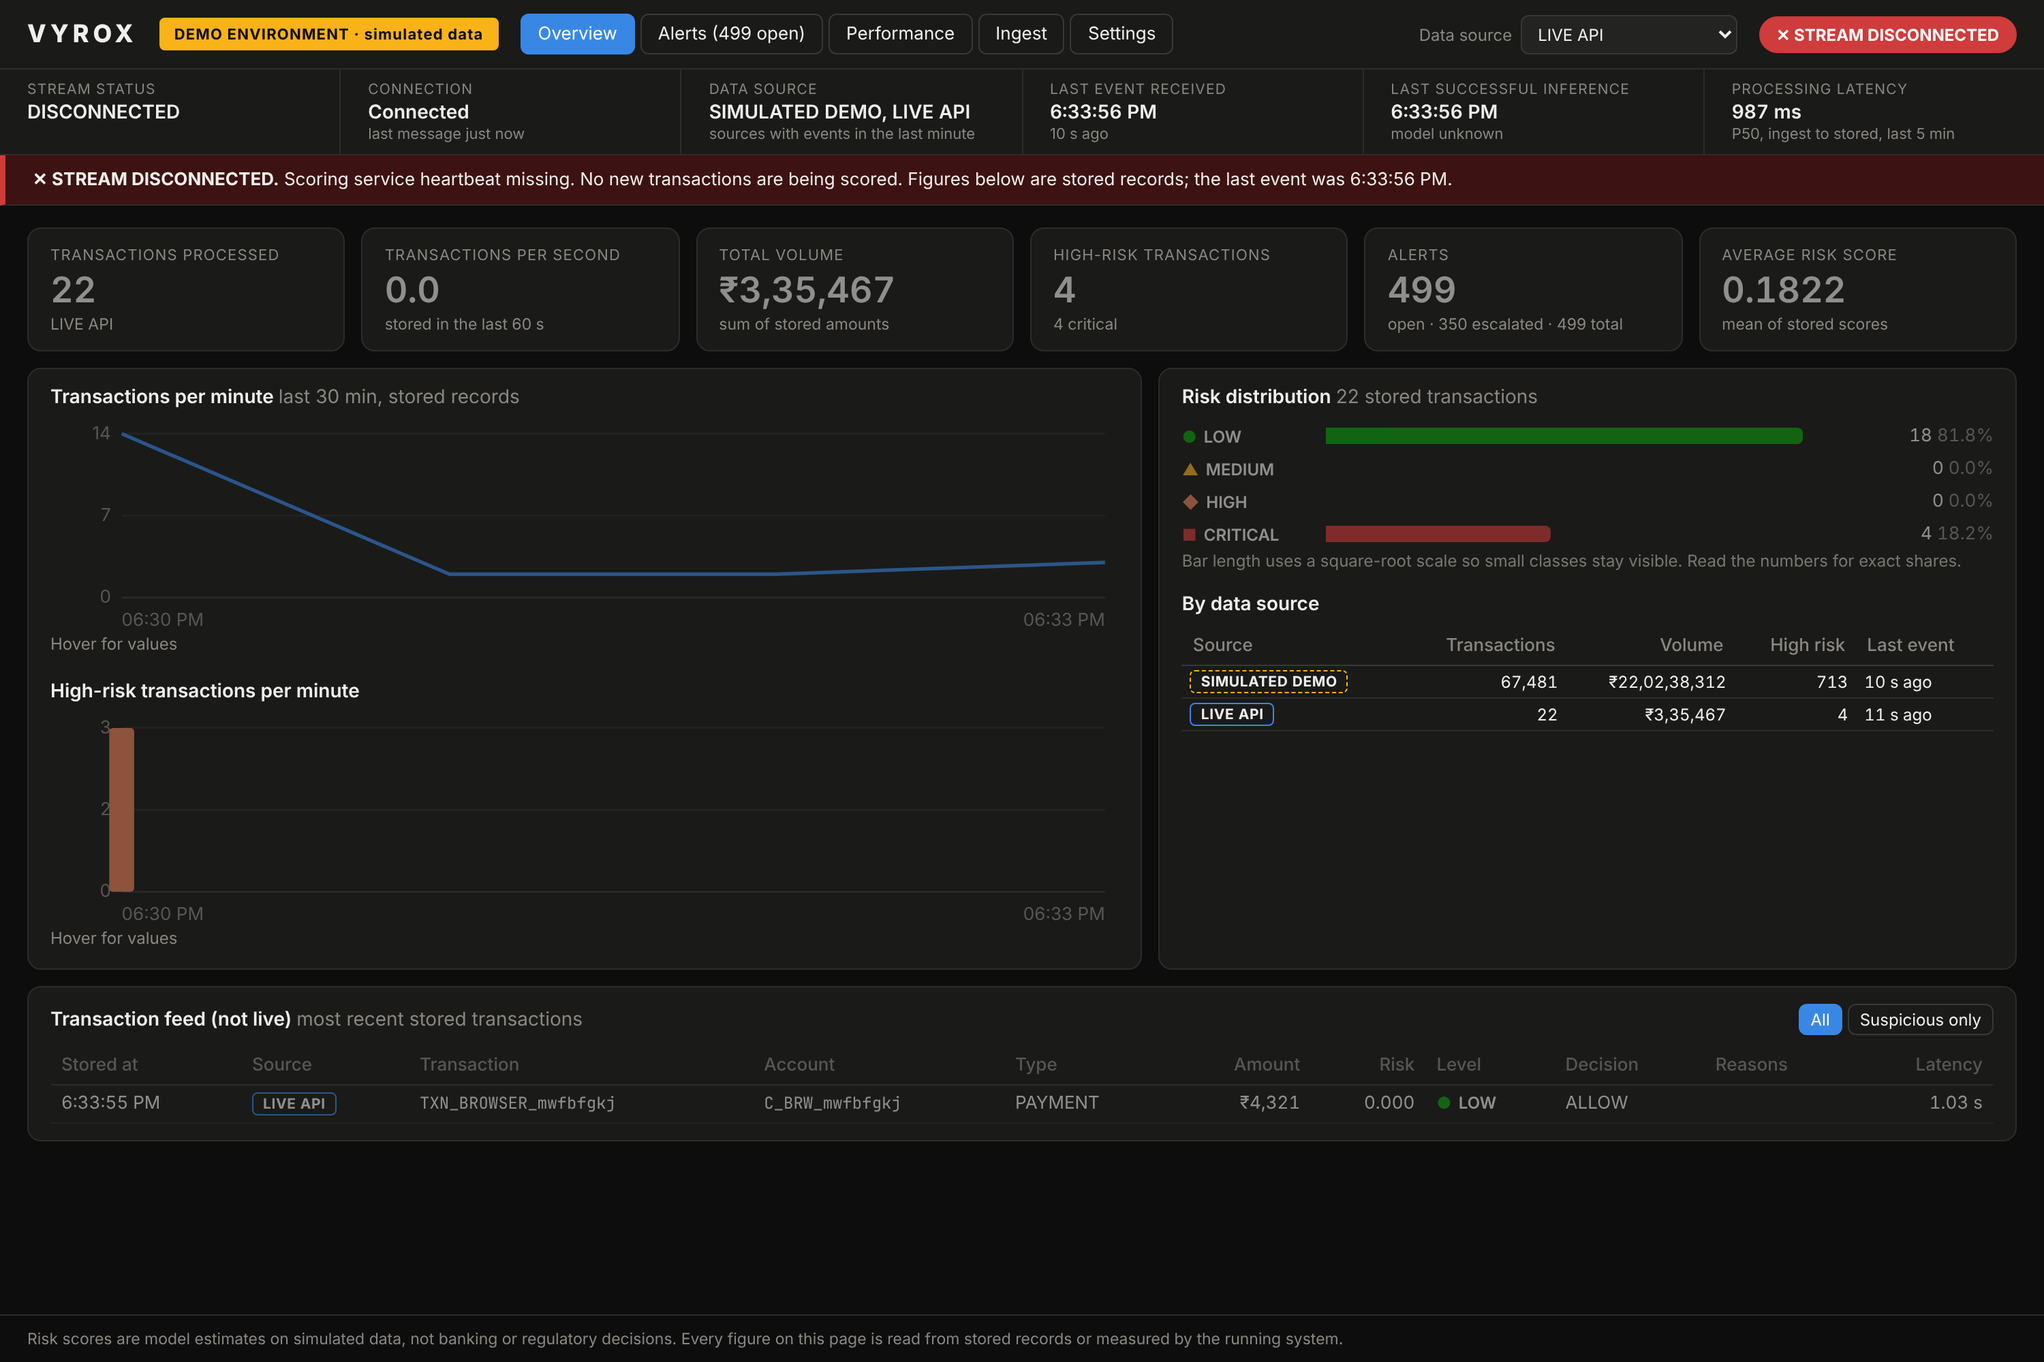
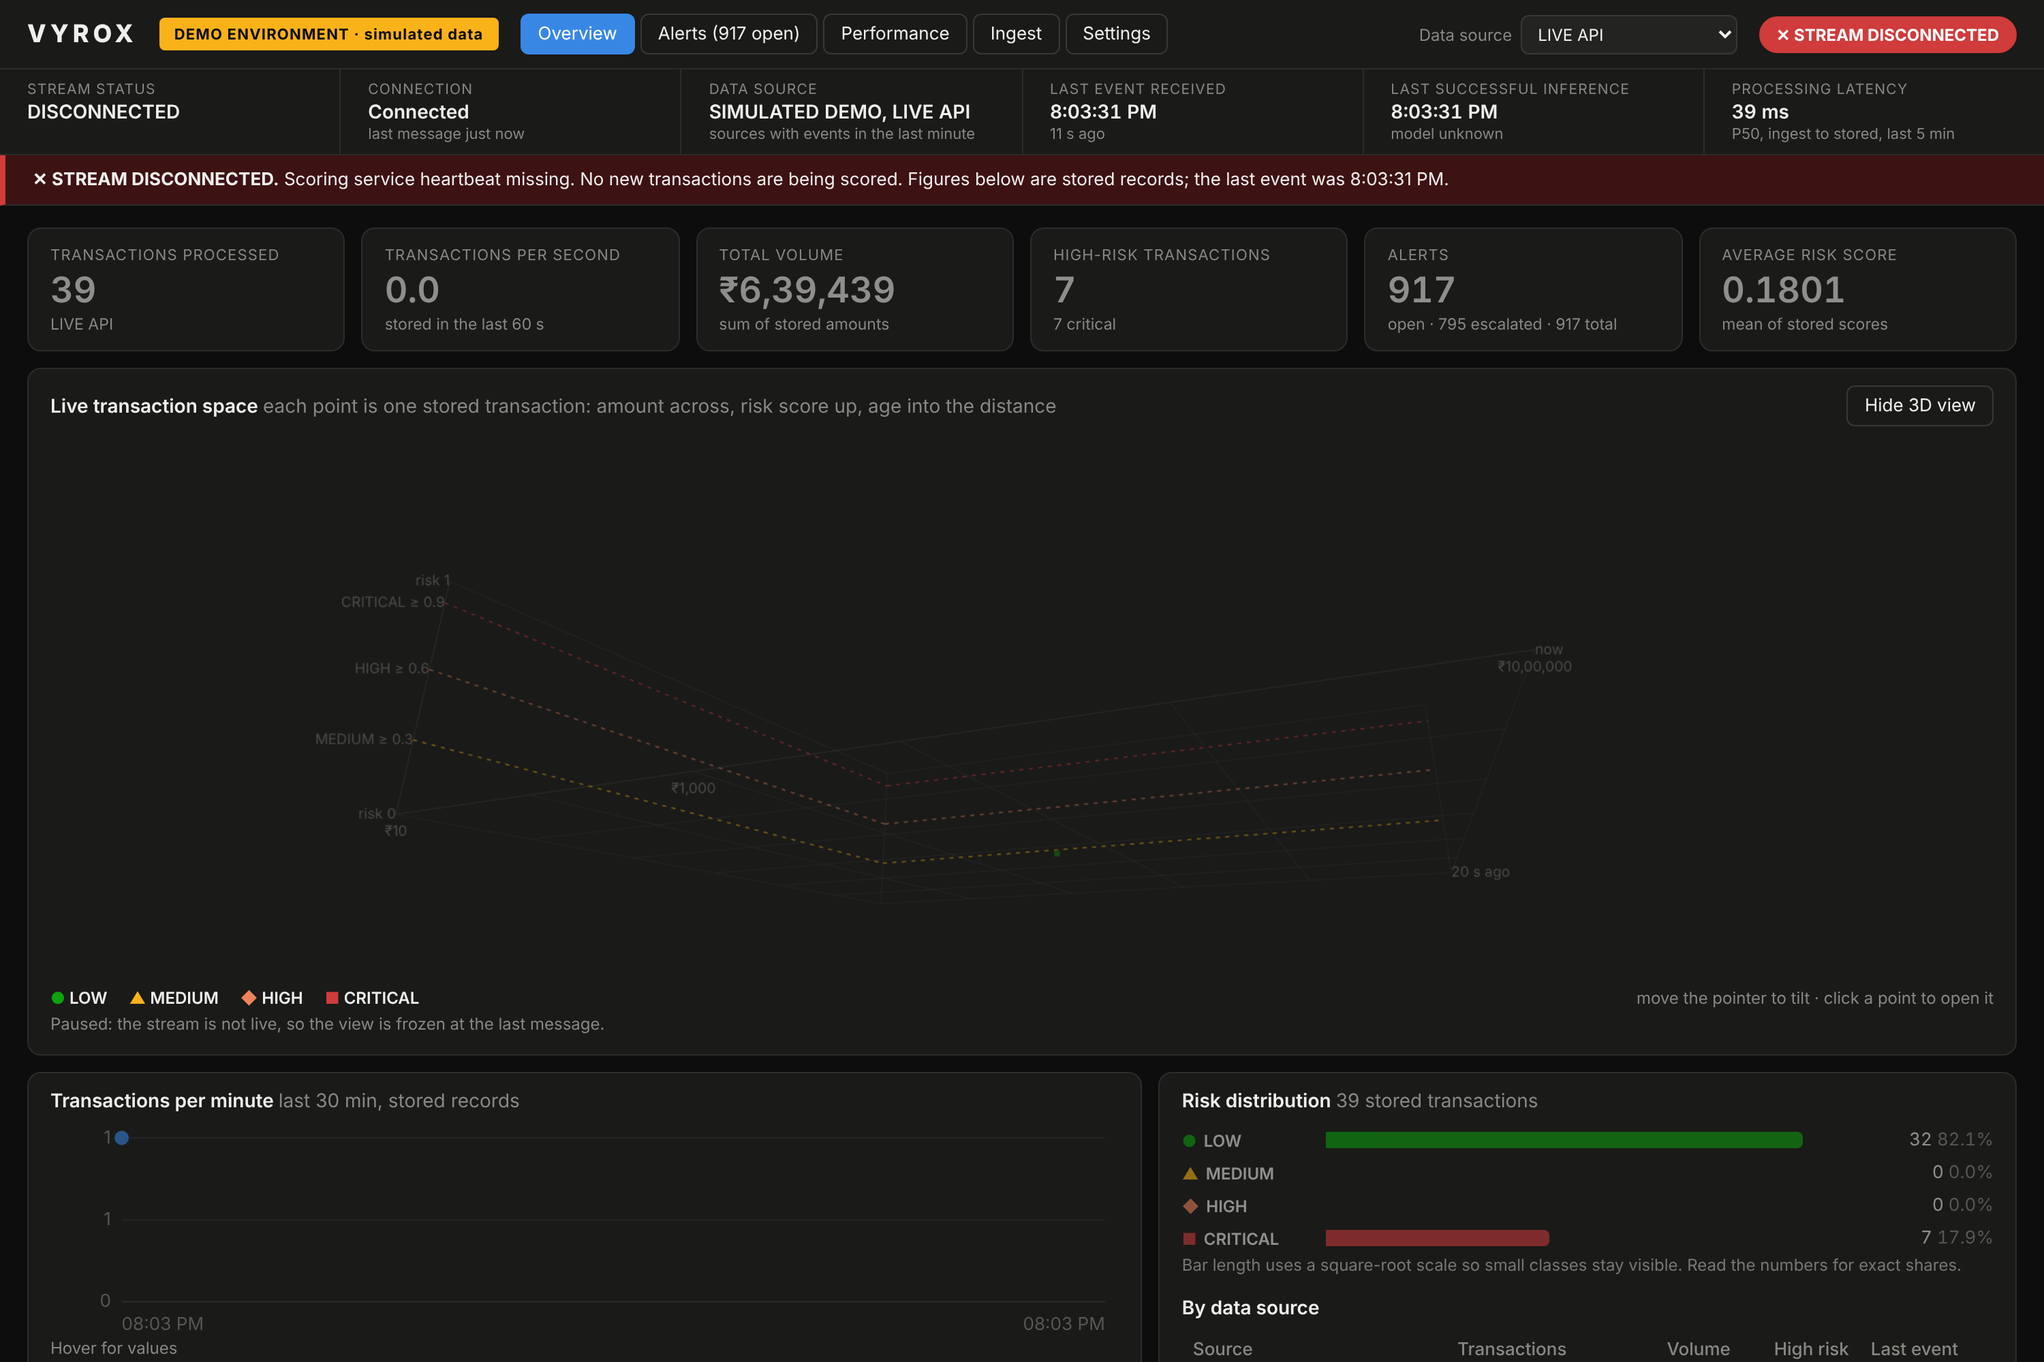
Add a lightweight 3D live view of the transaction stream
Canvas-based 3D scatter of the last 20 seconds (amount, risk score, age),
fed only by stored transactions from the SSE stream. It freezes and dims when
the stream is not live, is capped at 20 fps, and can be switched off.

Claude-Session: https://claude.ai/code/session_016dwzvm154h7gx5wKtvHvyx

diff --git a/services/dashboard/src/Scene3D.tsx b/services/dashboard/src/Scene3D.tsx
@@ -1,0 +1,179 @@
+// 3D live view: every point is one stored transaction pushed by the backend.
+//
+//   left-right  amount (log scale)        up-down  risk score (0 to 1)
+//   depth       age: new transactions arrive at the front and recede as they age
+//
+// Nothing here is simulated. Points only move because they get older, and the
+// clock stops when the stream is not live, so a stalled pipeline gives a still,
+// dimmed scene instead of something that looks alive.
+//
+// Kept light on purpose: plain canvas with a hand-written perspective
+// projection (no WebGL, no 3D library), capped at 20 frames per second, at most
+// 1,200 points, and no drawing at all while the tab or the panel is hidden.
+import { useEffect, useRef, useState } from "react";
+import { LEVELS, Policy, RiskLevel, Txn } from "./api";
+import { LEVEL_ICON } from "./charts";
+
+const WINDOW_S = 20;
+const MAX_POINTS = 1200;
+const FRAME_MS = 1000 / 20;
+const LEVEL_VAR: Record<RiskLevel, string> = { LOW: "--good", MEDIUM: "--warning", HIGH: "--serious", CRITICAL: "--critical" };
+const SIZE: Record<RiskLevel, number> = { LOW: 1.6, MEDIUM: 3.2, HIGH: 4.2, CRITICAL: 5.2 };
+const AMOUNT_MIN = 1, AMOUNT_MAX = 6; // log10 rupees: 10 to 10,00,000
+
+interface Props {
+  feed: Txn[];
+  isLive: boolean;
+  frozenAt: number | null;            // browser time of the last message, used when not live
+  clockOffset: number;                // browser clock minus server clock, ms
+  thresholds: Policy["thresholds"] | null;
+  onOpen: (id: string) => void;
+}
+interface Placed { t: Txn; sx: number; sy: number; r: number; depth: number }
+
+export function Scene3D({ feed, isLive, frozenAt, clockOffset, thresholds, onOpen }: Props) {
+  const canvasRef = useRef<HTMLCanvasElement>(null);
+  const state = useRef({ feed, isLive, frozenAt, clockOffset, thresholds, tiltX: 0, tiltY: 0, hover: null as Placed | null, placed: [] as Placed[], mx: -1, my: -1 });
+  const [tip, setTip] = useState<Placed | null>(null);
+  Object.assign(state.current, { feed, isLive, frozenAt, clockOffset, thresholds });
+
+  useEffect(() => {
+    const canvas = canvasRef.current!;
+    const ctx = canvas.getContext("2d")!;
+    const css = getComputedStyle(document.documentElement);
+    const color = (v: string) => css.getPropertyValue(v).trim();
+    const C = { line: color("--line"), axis: color("--axis"), muted: color("--muted"), ink: color("--ink"), surface: color("--surface"),
+                level: Object.fromEntries(LEVELS.map((l) => [l, color(LEVEL_VAR[l])])) as Record<RiskLevel, string> };
+    const reduced = window.matchMedia("(prefers-reduced-motion: reduce)").matches;
+    let raf = 0, last = 0, visible = true, W = 0, H = 0;
+
+    const resize = () => {
+      const dpr = Math.min(window.devicePixelRatio || 1, 1.5);
+      W = canvas.clientWidth; H = canvas.clientHeight;
+      canvas.width = Math.round(W * dpr); canvas.height = Math.round(H * dpr);
+      ctx.setTransform(dpr, 0, 0, dpr, 0, 0);
+    };
+    resize();
+    const ro = new ResizeObserver(resize); ro.observe(canvas);
+    const io = new IntersectionObserver(([e]) => { visible = e.isIntersecting; }); io.observe(canvas);
+
+    // World box: x in [-1, 1] (amount), y in [0, 1] (risk), z in [0, 1] (age, 0 = now).
+    const project = (x: number, y: number, z: number) => {
+      const s = state.current;
+      const yaw = -0.42 + s.tiltX * 0.22, pitch = 0.30 + s.tiltY * 0.10;
+      x *= 1.7;
+      const zc = (z - 0.5) * 3.0, yc = (y - 0.5) * 0.9;
+      const x1 = x * Math.cos(yaw) - zc * Math.sin(yaw);
+      const z1 = x * Math.sin(yaw) + zc * Math.cos(yaw);
+      const y1 = yc * Math.cos(pitch) - z1 * Math.sin(pitch);
+      const z2 = yc * Math.sin(pitch) + z1 * Math.cos(pitch) + 3.6;
+      const f = Math.min(W * 0.42, H * 1.75) / z2;
+      return { sx: W / 2 + x1 * f, sy: H / 2 - y1 * f + 28, scale: f / 200, depth: z2 };
+    };
+    const seg = (a: [number, number, number], b: [number, number, number], stroke: string, width = 1, dash: number[] = []) => {
+      const p = project(...a), q = project(...b);
+      ctx.strokeStyle = stroke; ctx.lineWidth = width; ctx.setLineDash(dash);
+      ctx.beginPath(); ctx.moveTo(p.sx, p.sy); ctx.lineTo(q.sx, q.sy); ctx.stroke();
+    };
+    const label = (text: string, at: [number, number, number], align: CanvasTextAlign = "left", dy = 0) => {
+      const p = project(...at);
+      ctx.fillStyle = C.muted; ctx.font = "10.5px Inter, system-ui, sans-serif"; ctx.textAlign = align;
+      ctx.fillText(text, p.sx, p.sy + dy);
+    };
+
+    const draw = (now: number) => {
+      raf = requestAnimationFrame(draw);
+      if (!visible || document.hidden || now - last < (reduced ? 500 : FRAME_MS)) return;
+      last = now;
+      const s = state.current;
+      // "Now" on the server clock. Frozen at the last message when the stream is not live.
+      const clock = (s.isLive || s.frozenAt == null ? Date.now() : s.frozenAt) - s.clockOffset;
+      ctx.clearRect(0, 0, W, H);
+      ctx.globalAlpha = s.isLive ? 1 : 0.45;
+
+      // Floor grid and frame.
+      for (let i = 0; i <= 6; i++) seg([-1, 0, i / 6], [1, 0, i / 6], i === 0 ? C.axis : C.line);
+      for (let i = 0; i <= 5; i++) seg([-1 + (2 * i) / 5, 0, 0], [-1 + (2 * i) / 5, 0, 1], C.line);
+      seg([-1, 0, 1], [-1, 1, 1], C.line); seg([1, 0, 1], [1, 1, 1], C.line); seg([-1, 1, 1], [1, 1, 1], C.line);
+      seg([-1, 0, 0], [-1, 1, 0], C.axis); seg([-1, 1, 0], [-1, 1, 1], C.line);
+      // Threshold planes, drawn as lines along the left wall and the back wall.
+      if (s.thresholds) {
+        (["medium", "high", "critical"] as const).forEach((k) => {
+          const y = s.thresholds![k], col = C.level[k.toUpperCase() as RiskLevel];
+          seg([-1, y, 0], [-1, y, 1], col, 1, [3, 4]); seg([-1, y, 1], [1, y, 1], col, 1, [3, 4]);
+          label(`${k.toUpperCase()} ≥ ${y}`, [-1, y, 0], "right", 3);
+        });
+      }
+      ctx.setLineDash([]);
+      label("risk 0", [-1, 0, 0], "right", 3); label("risk 1", [-1, 1, 0], "right", 3);
+      label("₹10", [-1, 0, 0], "center", 16); label("₹1,000", [-0.2, 0, 0], "center", 16); label("₹10,00,000", [1, 0, 0], "center", 16);
+      label("now", [1, 0, 0], "left", 3); label(`${WINDOW_S} s ago`, [1, 0, 1], "left", 3);
+
+      // Points, far to near so nearer ones draw on top.
+      const placed: Placed[] = [];
+      for (let i = 0; i < s.feed.length && placed.length < MAX_POINTS; i++) {
+        const t = s.feed[i];
+        const age = (clock - Date.parse(t.persisted_at)) / 1000;
+        if (age > WINDOW_S) continue;
+        const lx = (Math.min(AMOUNT_MAX, Math.max(AMOUNT_MIN, Math.log10(Math.max(t.amount, 1)))) - AMOUNT_MIN) / (AMOUNT_MAX - AMOUNT_MIN);
+        const p = project(lx * 2 - 1, t.risk_score, Math.max(0, age) / WINDOW_S);
+        placed.push({ t, sx: p.sx, sy: p.sy, r: Math.max(1.2, SIZE[t.risk_level] * p.scale * 1.6), depth: p.depth });
+      }
+      placed.sort((a, b) => b.depth - a.depth);
+      for (const p of placed) {
+        const hot = p.t.risk_level !== "LOW";
+        if (hot) { // a stem to the floor makes height readable in 3D
+          const lx = (Math.min(AMOUNT_MAX, Math.max(AMOUNT_MIN, Math.log10(Math.max(p.t.amount, 1)))) - AMOUNT_MIN) / (AMOUNT_MAX - AMOUNT_MIN);
+          const age = Math.max(0, (clock - Date.parse(p.t.persisted_at)) / 1000) / WINDOW_S;
+          const base = project(lx * 2 - 1, 0, age);
+          ctx.strokeStyle = C.level[p.t.risk_level]; ctx.globalAlpha = (s.isLive ? 1 : 0.45) * 0.45; ctx.lineWidth = 1;
+          ctx.beginPath(); ctx.moveTo(p.sx, p.sy); ctx.lineTo(base.sx, base.sy); ctx.stroke();
+        }
+        ctx.globalAlpha = (s.isLive ? 1 : 0.45) * (hot ? 1 : 0.75);
+        ctx.fillStyle = C.level[p.t.risk_level];
+        if (!hot) { ctx.fillRect(p.sx - p.r, p.sy - p.r, p.r * 2, p.r * 2); continue; } // squares are much cheaper than arcs
+        ctx.beginPath(); ctx.arc(p.sx, p.sy, p.r, 0, Math.PI * 2); ctx.fill();
+        if (hot) { ctx.strokeStyle = C.surface; ctx.lineWidth = 1.5; ctx.stroke(); }
+      }
+      s.placed = placed;
+
+      // Hover: nearest point within reach of the pointer.
+      let best: Placed | null = null, bestD = 14 * 14;
+      if (s.mx >= 0) for (const p of placed) {
+        const d = (p.sx - s.mx) ** 2 + (p.sy - s.my) ** 2;
+        if (d < bestD || (d < 14 * 14 && best && p.t.risk_score > best.t.risk_score && d < bestD * 1.5)) { best = p; bestD = d; }
+      }
+      if (best) {
+        ctx.globalAlpha = 1; ctx.strokeStyle = C.ink; ctx.lineWidth = 2;
+        ctx.beginPath(); ctx.arc(best.sx, best.sy, best.r + 3, 0, Math.PI * 2); ctx.stroke();
+      }
+      if ((best?.t.transaction_id ?? null) !== (s.hover?.t.transaction_id ?? null)) { s.hover = best; setTip(best); }
+      ctx.globalAlpha = 1;
+    };
+    raf = requestAnimationFrame(draw);
+    return () => { cancelAnimationFrame(raf); ro.disconnect(); io.disconnect(); };
+  }, []);
+
+  const move = (e: React.MouseEvent<HTMLCanvasElement>) => {
+    const box = e.currentTarget.getBoundingClientRect(), s = state.current;
+    s.mx = e.clientX - box.left; s.my = e.clientY - box.top;
+    s.tiltX = (s.mx / box.width - 0.5) * 2; s.tiltY = (s.my / box.height - 0.5) * 2;
+  };
+  const leave = () => { const s = state.current; s.mx = s.my = -1; s.tiltX = s.tiltY = 0; };
+  const inWindow = state.current.placed.length;
+
+  return (
+    <div className="scene" data-testid="scene3d">
+      <canvas ref={canvasRef} onMouseMove={move} onMouseLeave={leave} onClick={() => tip && onOpen(tip.t.transaction_id)}
+              role="img" aria-label="3D view of transactions from the last 20 seconds by amount, risk score and age" />
+      <div className="scene-legend">
+        {LEVELS.map((l) => <span key={l}><i style={{ color: `var(${LEVEL_VAR[l]})` }}>{LEVEL_ICON[l]}</i> {l}</span>)}
+        <span className="muted">move the pointer to tilt · click a point to open it</span>
+      </div>
+      <div className="scene-tip">
+        {tip ? <><b className="mono">{tip.t.transaction_id}</b> · ₹{tip.t.amount.toLocaleString("en-IN")} {tip.t.txn_type} · risk {tip.t.risk_score.toFixed(3)} · {tip.t.risk_level} · {tip.t.source.replace("_", " ")}</>
+             : <span className="muted">{isLive ? `${inWindow} transactions from the last ${WINDOW_S} s. The same rows are in the feed table below.` : "Paused: the stream is not live, so the view is frozen at the last message."}</span>}
+      </div>
+    </div>
+  );
+}

diff --git a/services/dashboard/src/App.tsx b/services/dashboard/src/App.tsx
@@ -4,6 +4,7 @@ import {
 } from "./api";
 import { LEVEL_COLOR, LEVEL_ICON, MinuteSeries, RiskDistribution } from "./charts";
 import { Live, useLive } from "./live";
+import { Scene3D } from "./Scene3D";
 
 type Tab = "overview" | "alerts" | "performance" | "ingest" | "settings";
 type Health = "live" | "idle" | "delayed" | "disconnected" | "offline" | "connecting";
@@ -63,7 +64,7 @@ function Chips({ items }: { items: string[] }) {
 export default function App() {
   const [tab, setTab] = useState<Tab>("overview");
   const [source, setSource] = useState<Source | null>(null);
-  const seed = useCallback(() => api.recent(100, null), []);
+  const seed = useCallback(() => api.recent(500, null), []);
   const live = useLive(seed);
   const now = useNow();
   const h = health(live);
@@ -165,6 +166,10 @@ function Overview({ stats, feed, live, source, now, onOpen, isLive }: {
   stats: Stats | null; feed: Txn[]; live: Live; source: Source | null; now: number; onOpen: (id: string) => void; isLive: boolean;
 }) {
   const [suspicious, setSuspicious] = useState(false);
+  const [thresholds, setThresholds] = useState<Policy["thresholds"] | null>(null);
+  const [show3d, setShow3d] = useState(() => { try { return localStorage.getItem("vyrox-3d") !== "off"; } catch { return true; } });
+  const toggle3d = () => setShow3d((v) => { try { localStorage.setItem("vyrox-3d", v ? "off" : "on"); } catch { /* preference not saved */ } return !v; });
+  useEffect(() => { api.config().then((p) => setThresholds(p.thresholds)).catch(() => undefined); }, [live.conn]);
   if (!stats) return <div className="empty">No data received from the server yet.</div>;
   const rows = (suspicious ? feed.filter((t) => t.risk_level === "HIGH" || t.risk_level === "CRITICAL") : feed).slice(0, 40);
   const mixed = !source && stats.by_source.length > 1;
@@ -187,6 +192,14 @@ function Overview({ stats, feed, live, source, now, onOpen, isLive }: {
           "Data source" filter in the header restricts every figure to one source.
         </div>
       )}
+
+      <div className="panel">
+        <div className="panel-head">
+          <h3>Live transaction space <span className="muted">each point is one stored transaction: amount across, risk score up, age into the distance</span></h3>
+          <button onClick={toggle3d}>{show3d ? "Hide 3D view" : "Show 3D view"}</button>
+        </div>
+        {show3d && <Scene3D feed={feed} isLive={isLive} frozenAt={live.lastMessageAt} clockOffset={live.clockOffset} thresholds={thresholds} onOpen={onOpen} />}
+      </div>
 
       <div className="grid2">
         <div className="panel">

diff --git a/services/dashboard/src/live.ts b/services/dashboard/src/live.ts
@@ -10,7 +10,7 @@ import { useEffect, useRef, useState } from "react";
 import { Alert, BASE, KEY, Stats, Status, Txn } from "./api";
 
 export type Conn = "connecting" | "connected" | "disconnected";
-const FEED_SIZE = 200;
+const FEED_SIZE = 1200; // per source; enough for the 3D view's 20-second window at about 50 events per second
 const SILENCE_MS = 6000; // the server sends a status event every second
 
 export interface Live {
@@ -25,6 +25,7 @@ export interface Live {
   delivery: { p50: number; p95: number; p99: number; samples: number } | null; // persisted -> this browser
   received: number;               // transaction events received since the page loaded
   reconnects: number;
+  clockOffset: number;            // browser clock minus server clock, ms (0 until first status)
 }
 
 function percentile(sorted: number[], q: number): number {
@@ -34,7 +35,7 @@ function percentile(sorted: number[], q: number): number {
 export function useLive(seedFeed: () => Promise<Txn[]>): Live {
   const [live, setLive] = useState<Live>({
     conn: "connecting", connectedSince: null, lastMessageAt: null, status: null, stats: null, feed: [],
-    alertTick: 0, lastAlert: null, delivery: null, received: 0, reconnects: 0,
+    alertTick: 0, lastAlert: null, delivery: null, received: 0, reconnects: 0, clockOffset: 0,
   });
   const seedRef = useRef(seedFeed);
   seedRef.current = seedFeed;
@@ -85,6 +86,7 @@ export function useLive(seedFeed: () => Promise<Txn[]>): Live {
       if (event === "status") {
         offset = Math.min(offset, now - Date.parse(body.server_time));
         patch.status = body;
+        patch.clockOffset = offset;
       } else if (event === "stats") {
         patch.stats = body;
       } else if (event === "transaction") {

diff --git a/services/dashboard/src/styles.css b/services/dashboard/src/styles.css
@@ -100,3 +100,13 @@ table.compact td { padding: 3px 6px; font-size: 12px; }
 .series-tip { font-size: 12px; color: var(--ink-2); min-height: 18px; }
 .drawer { position: fixed; top: 0; right: 0; bottom: 0; width: min(460px, 100vw); background: var(--surface); border-left: 1px solid var(--axis); padding: 16px; overflow-y: auto; z-index: 10; box-shadow: -12px 0 32px rgba(0,0,0,.5); }
 td.small { word-break: break-all; }
+.scene canvas { width: 100%; height: 400px; display: block; cursor: crosshair; }
+.scene-legend { display: flex; gap: 16px; flex-wrap: wrap; font-size: 12px; font-weight: 600; margin-top: 4px; }
+.scene-legend i { font-style: normal; }
+.scene-legend .muted { margin-left: auto; }
+.scene-tip { font-size: 12px; color: var(--ink-2); min-height: 18px; margin-top: 4px; }
+/* A little depth on the tiles. Transform only, so it costs nothing while idle. */
+.kpis { perspective: 900px; }
+.kpi { transition: transform .18s ease, border-color .18s ease; transform-style: preserve-3d; }
+.kpi:hover { transform: translateZ(14px) rotateX(4deg); border-color: var(--axis); }
+@media (prefers-reduced-motion: reduce) { .kpi { transition: none; } .kpi:hover { transform: none; } }

diff --git a/README.md b/README.md
@@ -16,6 +16,15 @@ the running system.
 ![Live dashboard](docs/screenshots/live.png)
 ![Stream disconnected](docs/screenshots/disconnected.png)
 
+The 3D panel at the top of the overview plots every transaction of the last
+20 seconds: amount across, risk score up, age into the distance. Each point
+is a stored record pushed by the backend, and points move only because they
+age. When the stream is not live the clock stops, so the view freezes and
+dims. It is a plain canvas with a hand-written projection (no WebGL, no 3D
+library), capped at 20 frames per second and idle while hidden. In a headless
+browser with software rendering it used about a quarter of one CPU core at 50
+events per second; it can be switched off from the panel.
+
 ## The path of one transaction
 
 ```
